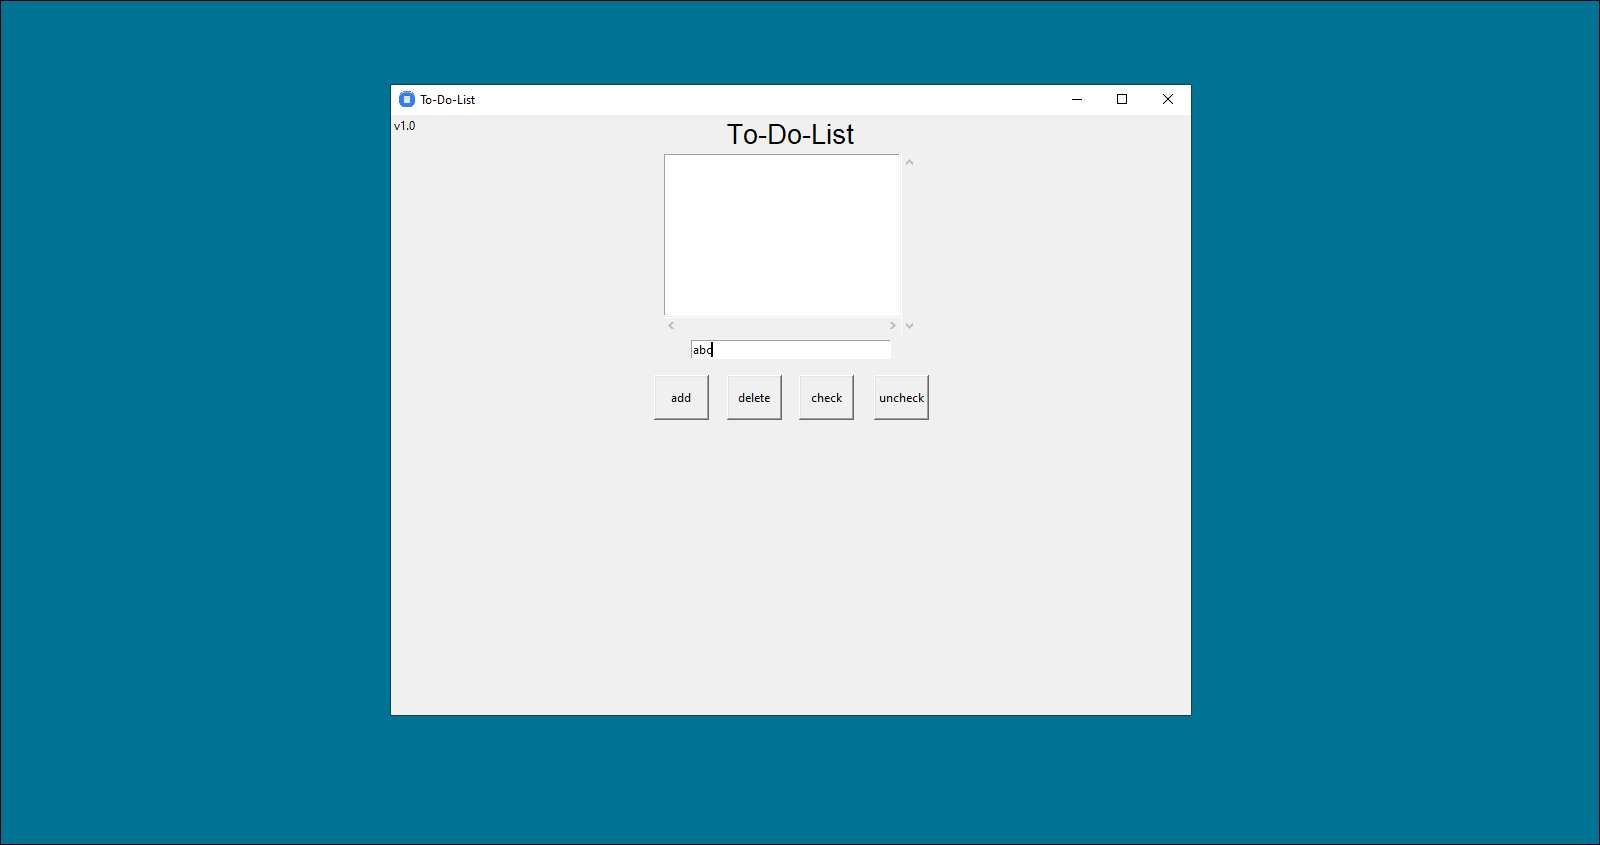
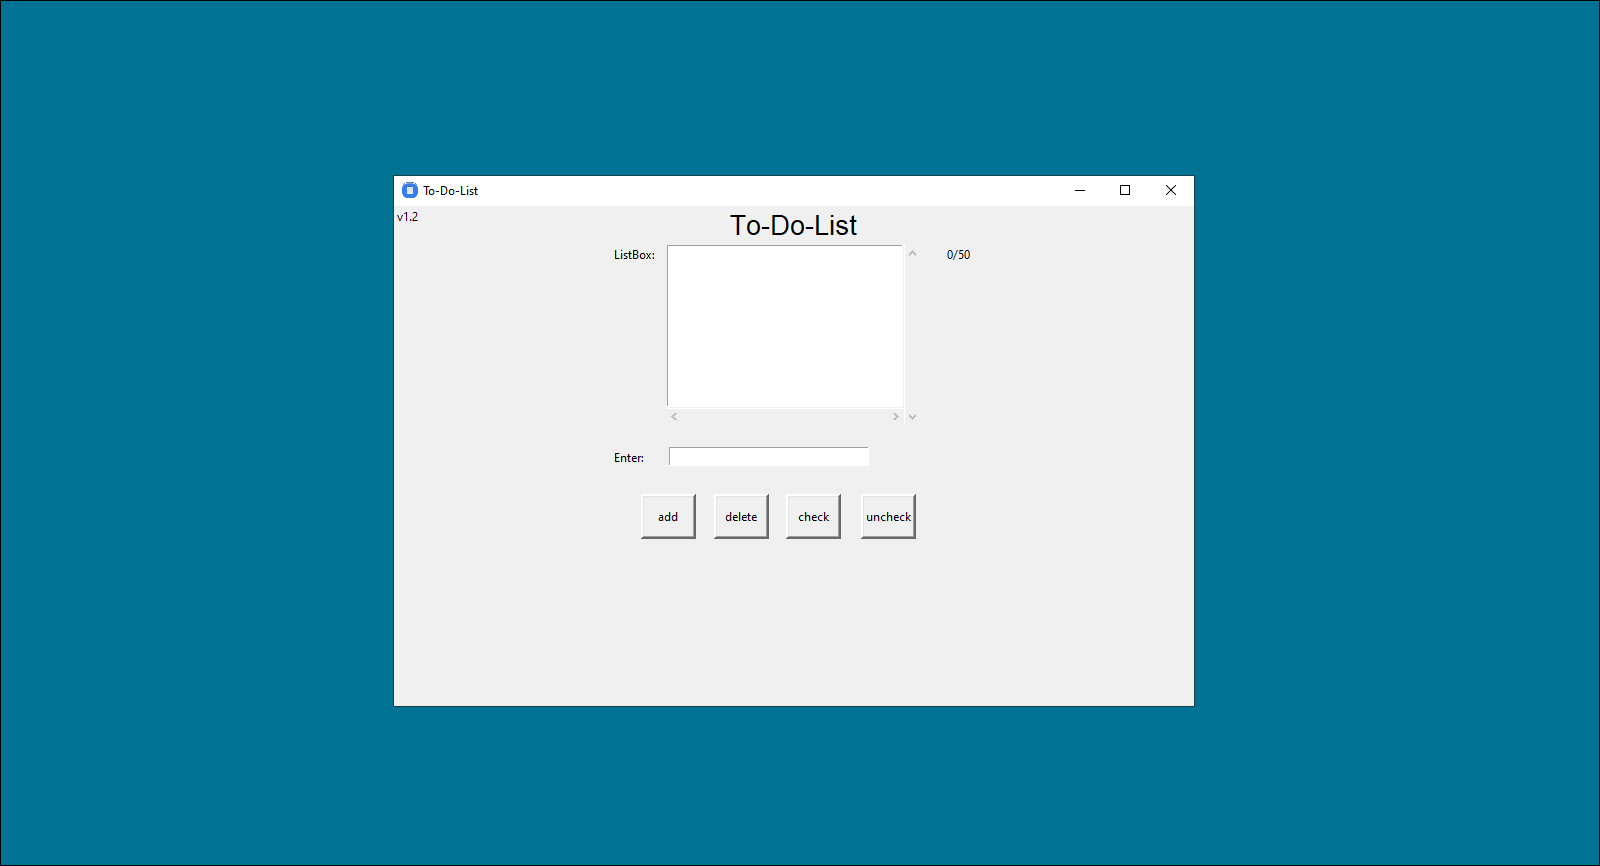
Add files via upload

diff --git a/todo.py b/todo.py
@@ -1,7 +1,12 @@
+import os
+import modFile
+import json
 import tkinter
 from tkinter.constants import HORIZONTAL, VERTICAL
 
 # Created By EH
+# -----------------------
+# this script was tested on python 3.9
 
 class AppEntry:
     def __init__(self, root):
@@ -16,31 +21,96 @@ class AppBox:
         self.vsbar.config(command=self.lb.yview)
         self.hsbar.config(command=self.lb.xview)
 
+class AppButtons:
+    def __init__(self, root, add, delete, check, uncheck):
+        self.b_add = tkinter.Button(root, text="add", bd=3, fg="black", command=add)
+        self.b_delete = tkinter.Button(root, text="delete", bd=3, fg="black", command=delete)
+        self.b_check = tkinter.Button(root, text="check", bd=3, fg="black", command=check)
+        self.b_uncheck = tkinter.Button(root, text="uncheck", bd=3, fg="black", command=uncheck)
+    
+
 class App:
     def __init__(self, root, lb, ent):
-        self.pos = 0
+        self.max = 50
+        self.items = 0
+        self.key = "data"
         self.lb = lb
         self.ent = ent
-        self.b_add = tkinter.Button(root, text="add", bd=3, fg="black", command=self.add)
-        self.b_delete = tkinter.Button(root, text="delete", bd=3, fg="black", command=self.delete)
-        self.b_check = tkinter.Button(root, text="check", bd=3, fg="black", command=self.check)
-        self.b_uncheck = tkinter.Button(root, text="uncheck", bd=3, fg="black", command=self.uncheck)
+        self.err = False
+        self.errtxt = tkinter.Label(root, text="")
+        self.count = tkinter.Label(root, text="{0}/{1}".format(self.items, self.max))
+        self.mod = modFile.ModFile("data.json")
+        self.btn = AppButtons(root, self.add, self.delete, self.check, self.uncheck)
+    
+    def reset_data(self):
+        with open("data.json", "w") as opn:
+            opn.seek(0)
+            json.dump({"data":[]}, opn, indent=4)
+            opn.truncate()
+        
+        opn.close()
+        return 0
 
+    def check_error(self):
+        if self.err:
+            self.err = False
+            self.errtxt.config(text="")
+        
+        return 0
+
+    def load_data(self):
+        if not os.path.isfile("data.json"):
+            raise Exception("data.json not found")
+
+        with open("data.json", "r") as opn:
+            try:
+                jdata = json.load(opn)
+                if len(jdata[self.key]) == 0:
+                    opn.close()
+                    return 0
+                
+                self.items = len(jdata[self.key])
+                if self.items > 50:
+                    raise Exception("ERROR MAX LIMIT")
+                
+                self.count.config(text="{0}/{1}".format(self.items, self.max))
+                for i in range(len(jdata[self.key])):
+                    self.lb.lb.insert(i, jdata[self.key][i])
+            except Exception as err:
+                self.reset_data()
+                raise err
+        
+        opn.close()
+        return 0
+    
     def check(self):
         selected = self.lb.lb.curselection()
         if len(selected) == 0:
             return 1
         
+        if self.items > self.max:
+            self.errtxt.config(text="ERROR MAX LIMIT")
+            self.err = True
+            return -1
+        
+        self.check_error()
+
         item = self.lb.lb.get(selected)
         if item[len(item)-1] == "✔":
             return 0
         
-        self.delete(selected)
+        temp = None
+        self.lb.lb.delete(selected[0])
+
         if item[len(item)-1] == "⨯":
-            self.lb.lb.insert(selected, item[:-1] + "✔")
+            temp = item[:-1] + "✔"
+            self.mod.edit(self.key, selected[0], temp)
+            self.lb.lb.insert(selected, temp)
             return 0
         
-        self.lb.lb.insert(selected,item + " ✔")
+        temp = item + " ✔"
+        self.mod.edit(self.key, selected[0], temp)
+        self.lb.lb.insert(selected[0], temp)
         return 0
     
     def uncheck(self):
@@ -48,16 +118,29 @@ class App:
         if len(selected) == 0:
             return 1
         
+        if self.items > self.max:
+            self.errtxt.config(text="ERROR MAX LIMIT")
+            self.err = True
+            return -1
+        
+        self.check_error()
+
         item = self.lb.lb.get(selected)
         if item[len(item)-1] == "⨯":
             return 0
         
-        self.delete(selected)
+        temp = None
+        self.lb.lb.delete(selected[0])
+        
         if item[len(item)-1] == "✔":
-            self.lb.lb.insert(selected, item[:-1] + "⨯")
+            temp = item[:-1] + "⨯"
+            self.mod.edit(self.key, selected[0], temp)
+            self.lb.lb.insert(selected[0], temp)
             return 0
         
-        self.lb.lb.insert(selected, item + " ⨯")
+        temp = item + " ⨯"
+        self.mod.edit(self.key, selected[0], temp)
+        self.lb.lb.insert(selected[0], temp)
         return 0
     
     
@@ -66,8 +149,17 @@ class App:
         if len(selected) == 0:
             return 1
         
+        if self.items > self.max:
+            self.errtxt.config(text="ERROR MAX LIMIT")
+            self.err = True
+            return -1
+        
+        self.check_error()
+
+        self.mod.rm_item(self.key, selected[0])
         self.lb.lb.delete(selected)
-        self.pos -= 1
+        self.items -= 1
+        self.count.config(text="{0}/{1}".format(self.items, self.max))
         
         return 0
     
@@ -76,8 +168,15 @@ class App:
         if len(user_in) == 0:
             return 1
         
-        self.lb.lb.insert(self.pos, user_in)
-        self.ent.ent.delete(0, "end")
-        self.pos += 1
+        if self.items >= self.max:
+            self.errtxt.config(text="ERROR MAX LIMIT")
+            self.err = True
+            return -1
         
+        self.check_error()
+        self.mod.append_item(self.key, user_in)
+        self.lb.lb.insert(self.items, user_in)
+        self.ent.ent.delete(0, "end")
+        self.items += 1
+        self.count.config(text="{0}/{1}".format(self.items, self.max))
         return 0

diff --git a/modFile.py b/modFile.py
@@ -1,0 +1,98 @@
+import os
+import json
+
+class ModFile:
+    def __init__(self, filename):
+        self.filename = filename
+        if not self.filename.endswith(".json"):
+            raise Exception("filename must end with .json")
+        
+        if not os.path.isfile(self.filename):
+            opn = open(self.filename, "w")
+            json.dump({"data":[]}, opn, indent=4)
+            opn.close()
+            raise Exception("data.json not found")
+
+    def append_item(self, key, item):
+        with open(self.filename, "r+") as opn:
+            try:
+                jdata = json.load(opn)
+                if len(jdata[key]) > 50:
+                    opn.close()
+                    return -1
+                
+                jdata[key].append(item)
+                opn.seek(0)
+                json.dump(jdata, opn, indent=4)
+                opn.truncate()
+            except Exception:
+                opn.seek(0)
+                json.dump({"data":[]}, opn, indent=4)
+                opn.truncate()
+                opn.close()
+                return 1
+        
+        opn.close()
+        return 0
+    
+    def edit(self, key, item, data):
+        with open(self.filename, "r+") as opn:
+            try:
+                jdata= json.load(opn)
+                if len(jdata[key]) > 50:
+                    opn.close()
+                    return -1
+                
+                jdata[key][item] = data
+                opn.seek(0)
+                json.dump(jdata, opn, indent=4)
+                opn.truncate()
+            except Exception:
+                opn.seek(0)
+                json.dump({"data":[]}, opn, indent=4)
+                opn.truncate()
+                opn.close()
+                return 1
+        
+        opn.close()
+        return 1
+    
+    def insert_item(self, key, pos, item):
+        with open(self.filename, "r+") as opn:
+            try:
+                jdata = json.load(opn)
+                if len(jdata[key]) > 50:
+                    opn.close()
+                    return -1
+                
+                jdata[key].insert(pos, item)
+                opn.seek(0)
+                json.dump(jdata, opn, indent=4)
+                opn.truncate()
+            except Exception:
+                return 1
+        
+        opn.close()
+        return 0
+    
+    def rm_item(self, key, pos):
+        with open(self.filename, "r+") as opn:
+            try:
+                jdata = json.load(opn)
+                if len(jdata[key])-1 > 50:
+                    opn.close()
+                    return -1
+                
+                del jdata[key][pos]
+                opn.seek(0)
+                json.dump(jdata, opn, indent=4)
+                opn.truncate()
+            except Exception as err:
+                opn.seek(0)
+                json.dump({"data":[]}, opn, indent=4)
+                opn.truncate()
+                opn.close()
+                return 1
+        
+        opn.close()
+        return 0

diff --git a/main.py b/main.py
@@ -1,17 +1,32 @@
-# Created By EH 
+import sys
+import json
 import todo
 import tkinter
 from tkinter.constants import RIGHT, BOTTOM
 
+# Created By EH 
+# -----------------------
+# this script was tested on python 3.9
+
+if len(sys.argv) > 1:
+    if type(sys.argv[1]) == str and sys.argv[1] == "--reset":
+        with open("data.json", "w") as opn:
+            opn.seek(0)
+            json.dump({"data":[]}, opn, indent=4)
+            opn.truncate()
+        
+        exit(0)
+
+
 if __name__ == "__main__":
     root = tkinter.Tk()
     mframe = tkinter.Frame(root)
-
+    
     root.geometry("800x500")
     root.title("To-Do-List")
     root.iconbitmap("icon.ico")
 
-    ver = tkinter.Label(root, text="v1.1")
+    ver = tkinter.Label(root, text="v1.2")
     lbl_ent = tkinter.Label(mframe, text="Enter:")
     lbl_lbox = tkinter.Label(mframe, text="ListBox: ")
     lbl = tkinter.Label(root, text="To-Do-List", font=("", 20))
@@ -23,6 +38,7 @@ if __name__ == "__main__":
     ent = todo.AppEntry(mframe)
     l_box = todo.AppBox(mframe)
     app = todo.App(mframe, l_box, ent)
+    app.load_data()
 
     root.bind("<Return>", app.add)
     root.bind("<Delete>", app.delete)
@@ -33,11 +49,14 @@ if __name__ == "__main__":
     l_box.hsbar.pack(side=BOTTOM, fill="x")
     l_box.lb.pack()
     l_box.tframe.pack()
+    app.errtxt.pack()
 
+    app.count.place(x=333, y=0)
     ent.ent.place(width=200, x=58, y=203)
-    app.b_add.place(width=55,height=45, x=30, y=250)
-    app.b_delete.place(width=55,height=45, x=103, y=250)
-    app.b_check.place(width=55,height=45, x=175, y=250)
-    app.b_uncheck.place(width=55,height=45, x=250, y=250)
+    
+    app.btn.b_add.place(width=55,height=45, x=30, y=250)
+    app.btn.b_delete.place(width=55,height=45, x=103, y=250)
+    app.btn.b_check.place(width=55,height=45, x=175, y=250)
+    app.btn.b_uncheck.place(width=55,height=45, x=250, y=250)
 
     root.mainloop()
